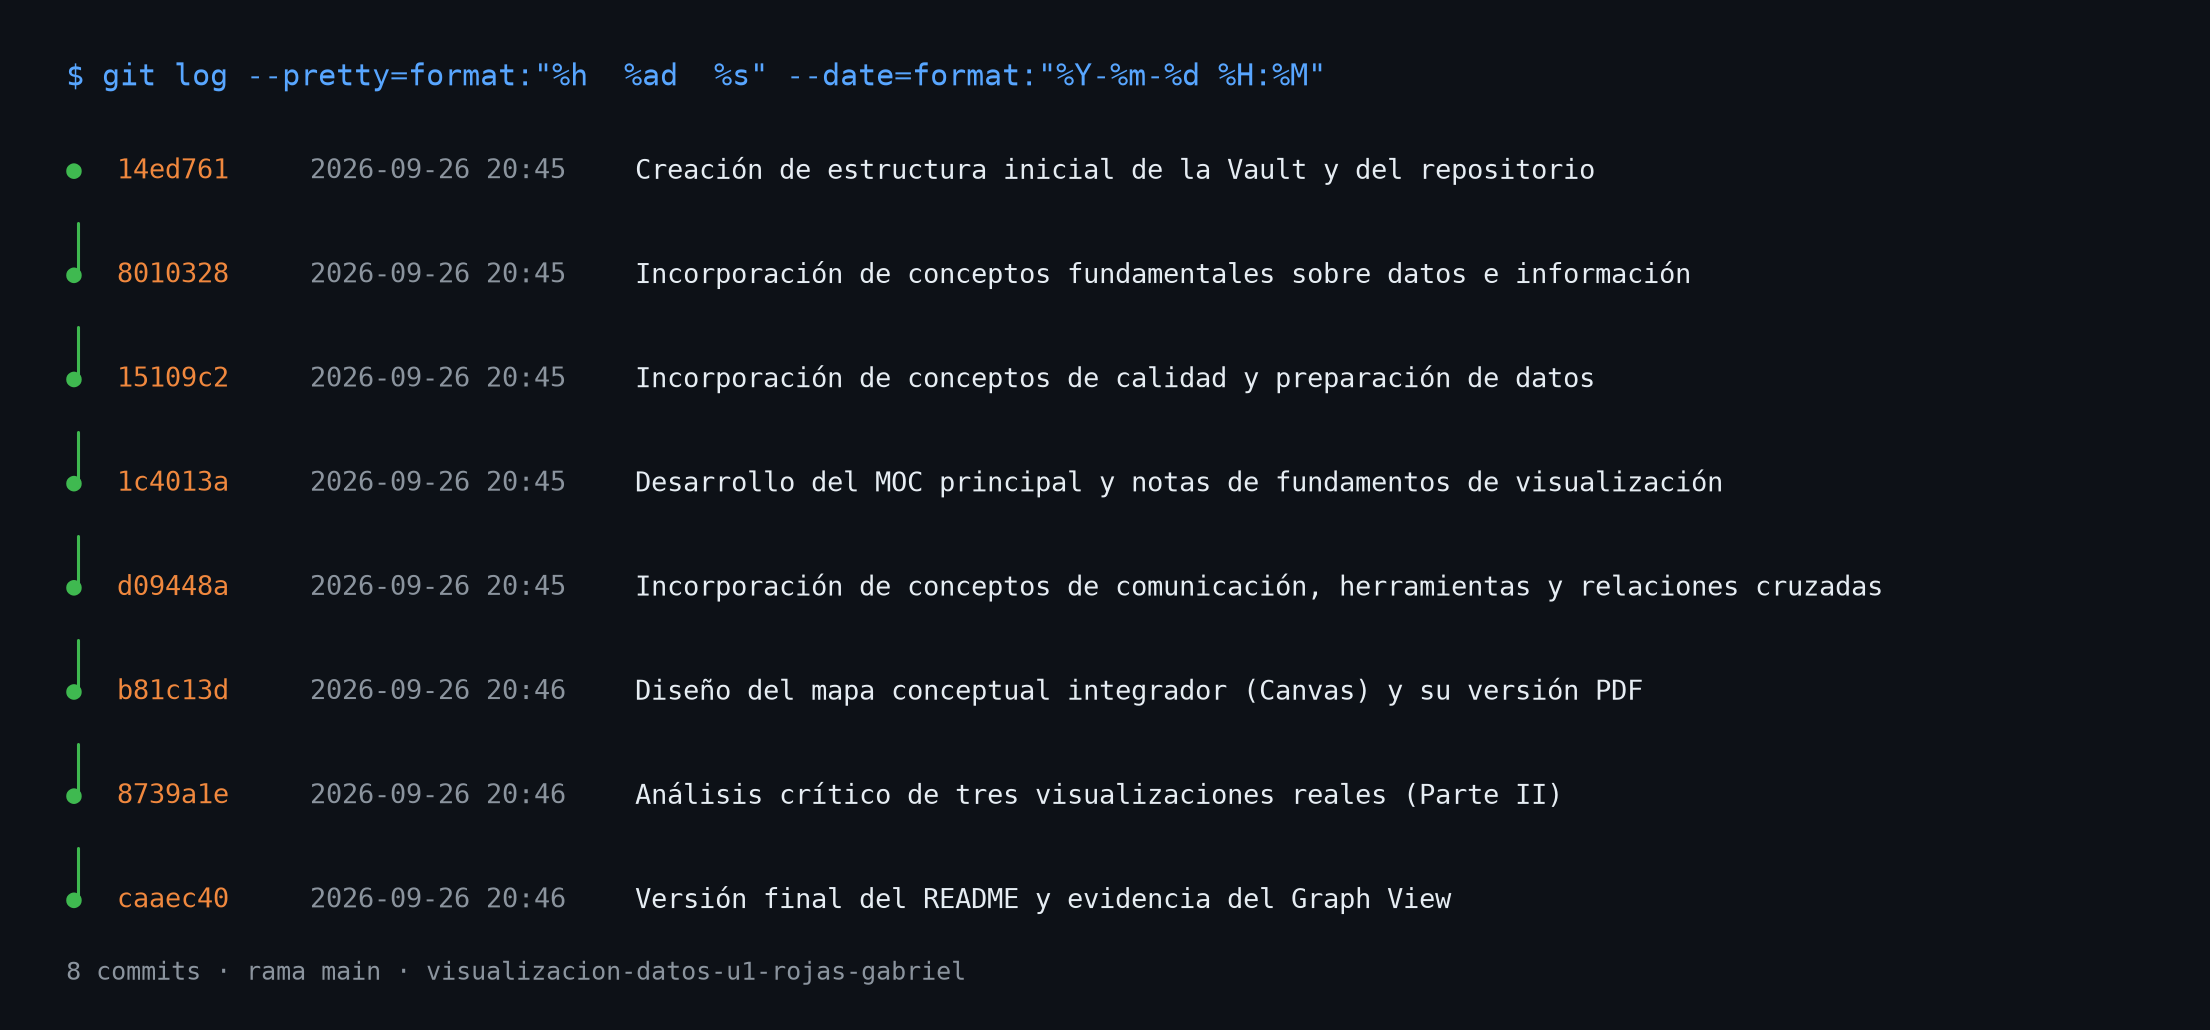
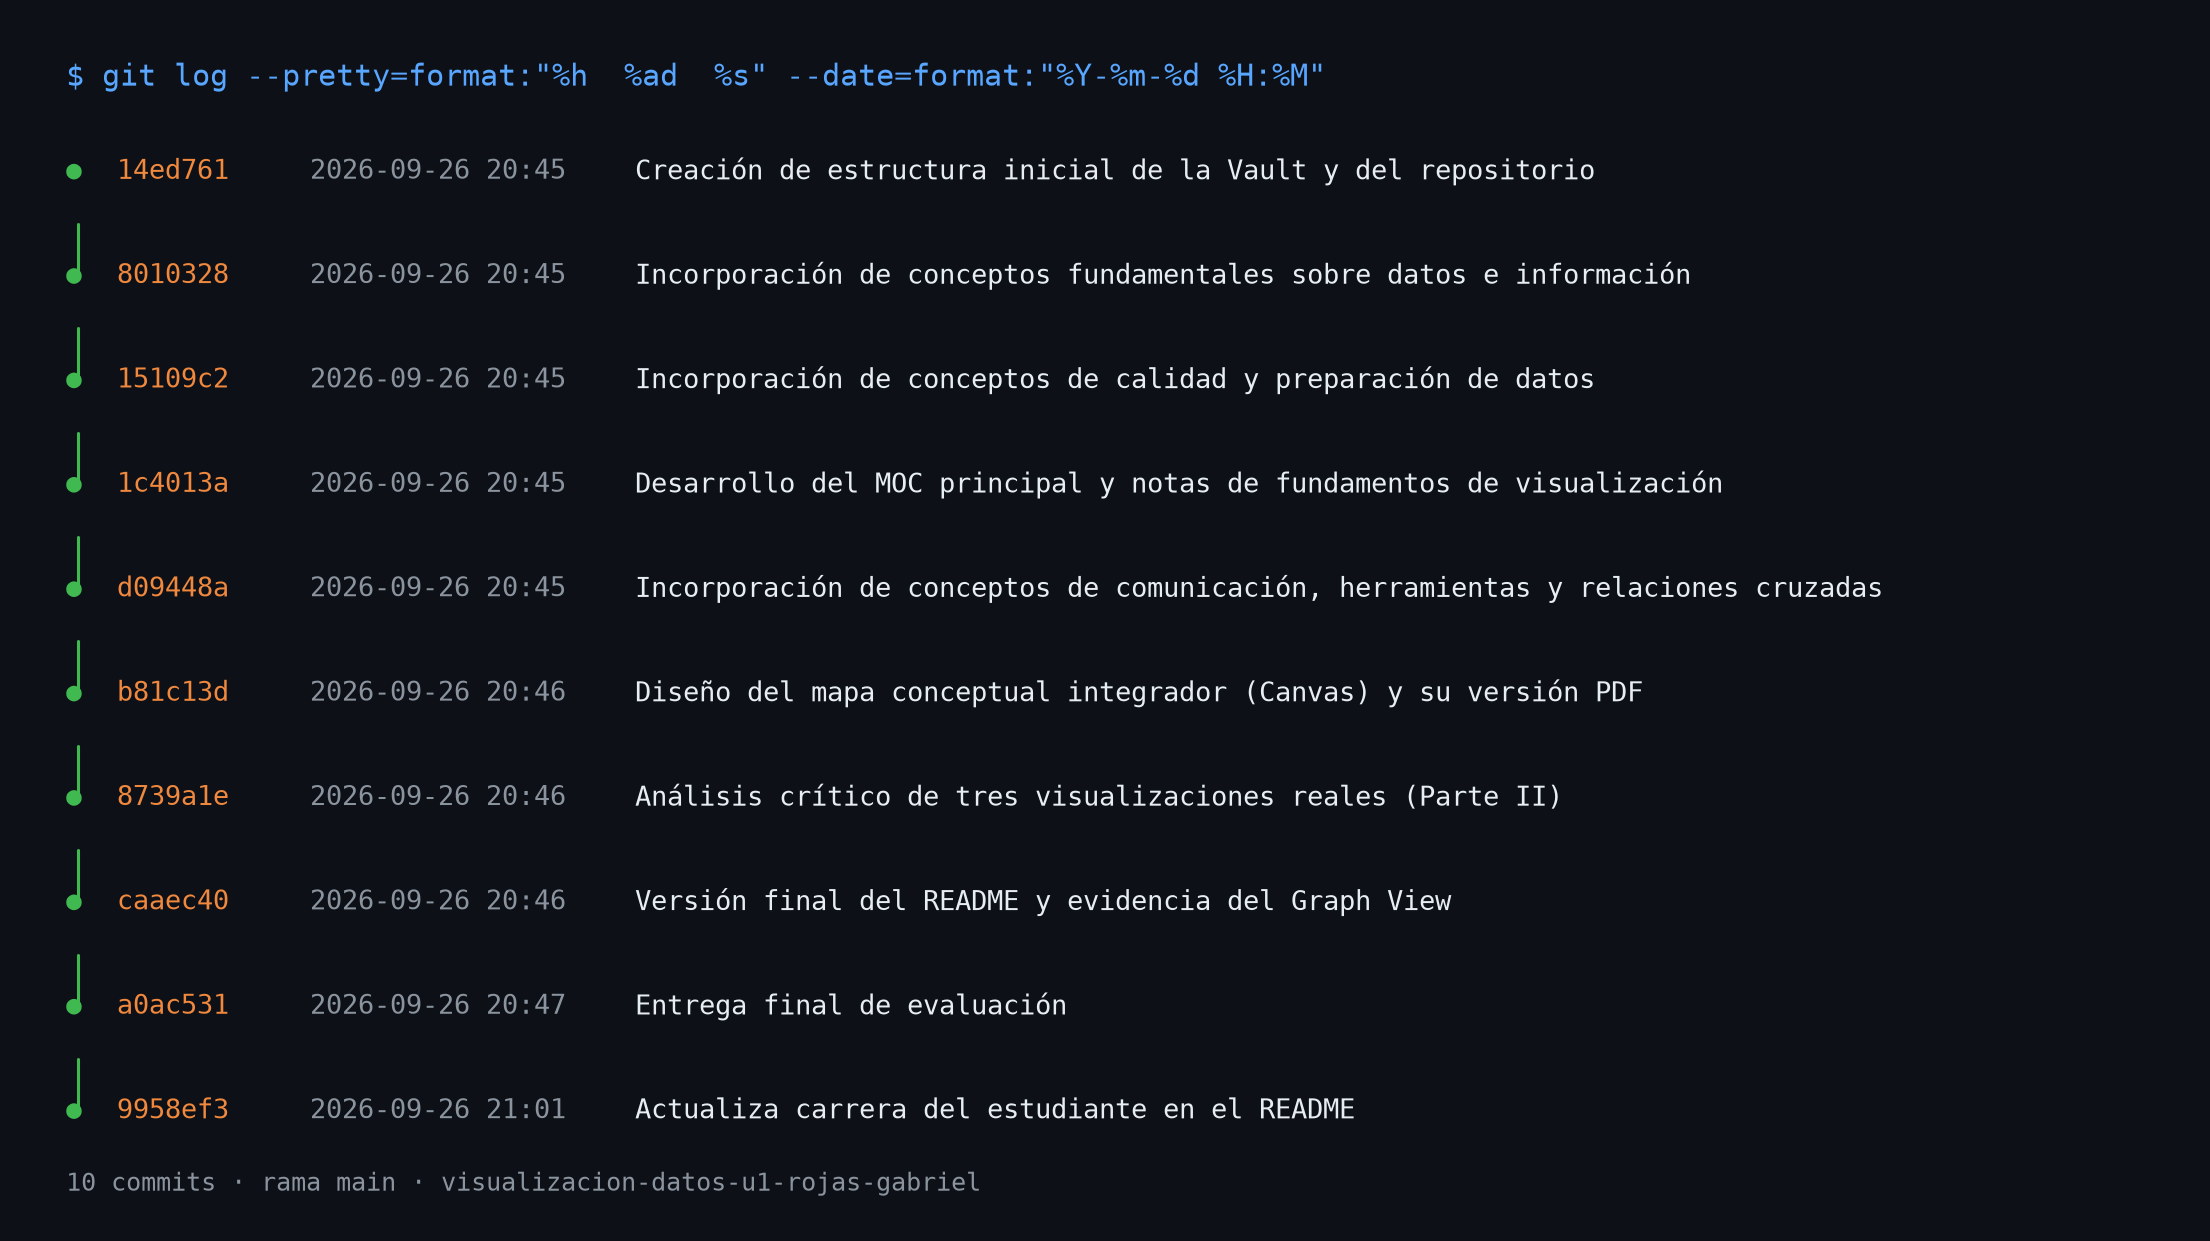
Corrige enlaces mal referenciados y agrega captura real del Graph View
Se corrigen 3 enlaces internos que incluían por error el prefijo
'Vault/' (la carpeta Vault es la raíz de la bóveda), lo que generaba
nodos fantasma no resueltos en el grafo. Se reemplaza GraphView.png
por una captura real tomada desde la aplicación Obsidian 1.13.7 abriendo
la bóveda del proyecto, y se actualiza el historial de commits.

diff --git a/Vault/Referencias/Referencias.md b/Vault/Referencias/Referencias.md
@@ -4,7 +4,7 @@
 
 Alcalde Perea, I. *Visualización de la información: De los datos al conocimiento*.
 
-Esta obra es la base conceptual de toda la Vault. Su idea central —que los datos solo generan valor cuando son transformados progresivamente en información y luego en conocimiento accionable— estructura los seis ejes temáticos del [[Vault/MOC/Mapa General de Visualización de Datos|Mapa General de Visualización de Datos]].
+Esta obra es la base conceptual de toda la Vault. Su idea central —que los datos solo generan valor cuando son transformados progresivamente en información y luego en conocimiento accionable— estructura los seis ejes temáticos del [[Mapa General de Visualización de Datos|Mapa General de Visualización de Datos]].
 
 > **Nota de trazabilidad:** las notas conceptuales de esta Vault fueron redactadas integrando la lectura del libro con el marco general de la disciplina (principios de percepción visual, codificación de datos y buenas prácticas ampliamente aceptados en visualización de información). Se recomienda contrastar cada resumen personal con el capítulo correspondiente del libro para enriquecerlo con citas textuales específicas del autor.
 

diff --git a/Vault/Reflexiones/Bitacora de Aprendizaje.md b/Vault/Reflexiones/Bitacora de Aprendizaje.md
@@ -9,7 +9,7 @@ Definí los seis ejes temáticos que estructurarían la Vault (fundamentos, natu
 Comencé por [[Datos]], [[Información]] y [[Conocimiento]], ya que son la base sobre la que se apoya el resto del vocabulario del libro.
 
 ## Etapa 3 — Desarrollo del MOC
-Construí el [[Vault/MOC/Mapa General de Visualización de Datos|Mapa General de Visualización de Datos]] como centro de navegación, agrupando las notas por eje temático.
+Construí el [[Mapa General de Visualización de Datos|Mapa General de Visualización de Datos]] como centro de navegación, agrupando las notas por eje temático.
 
 ## Etapa 4 — Relaciones cruzadas
 Revisé cada nota para asegurar que tuviera al menos un enlace hacia un concepto de un eje temático distinto (por ejemplo, [[Ética de los Datos y Sesgos]] conecta calidad de datos con buenas prácticas), evitando nodos aislados.

diff --git a/Vault/MOC/Mapa General de Visualización de Datos.md b/Vault/MOC/Mapa General de Visualización de Datos.md
@@ -55,7 +55,7 @@ Esta nota es el **Mapa de Contenido (MOC)** central de la Vault `VisualizacionDa
 
 1. Cada nota conceptual contiene **Definición**, **Resumen Personal**, **Importancia** y **Relacionado con** (enlaces cruzados).
 2. Los seis ejes de este MOC no son compartimentos aislados: existen enlaces cruzados entre ellos (por ejemplo, [[Ética de los Datos y Sesgos]] conecta calidad de datos con buenas prácticas de visualización).
-3. El [[Vault/Referencias/Referencias|Referencias]] documenta la fuente bibliográfica principal.
+3. El [[Referencias|Referencias]] documenta la fuente bibliográfica principal.
 4. La carpeta `Reflexiones` contiene la bitácora de aprendizaje del proceso.
 5. El mapa conceptual integrador (Canvas) se encuentra en `MapaConceptual/MapaConceptual.canvas` y complementa visualmente esta red de notas.
 

diff --git a/README.md b/README.md
@@ -44,7 +44,7 @@ visualizacion-datos-u1-rojas-gabriel/
 
 ![Graph View de la Vault](Evidencias/GraphView.png)
 
-> **Nota de trazabilidad:** esta imagen fue generada de forma programática a partir de los enlaces `[[wikilink]]` reales existentes entre las 34 notas de la Vault (34 nodos, 132 relaciones, 0 nodos aislados), replicando la lógica de agrupación y fuerza del Graph View de Obsidian. Se recomienda reemplazarla por una captura de pantalla tomada directamente desde la aplicación Obsidian antes de la entrega final, abriendo la carpeta `Vault/` como bóveda.
+> **Nota de trazabilidad:** captura real tomada desde la aplicación Obsidian (v1.13.7), abriendo `Vault/` como bóveda. Muestra las 34 notas interconectadas mediante enlaces `[[wikilink]]`, sin nodos aislados.
 
 ## Aprendizajes Obtenidos
 
